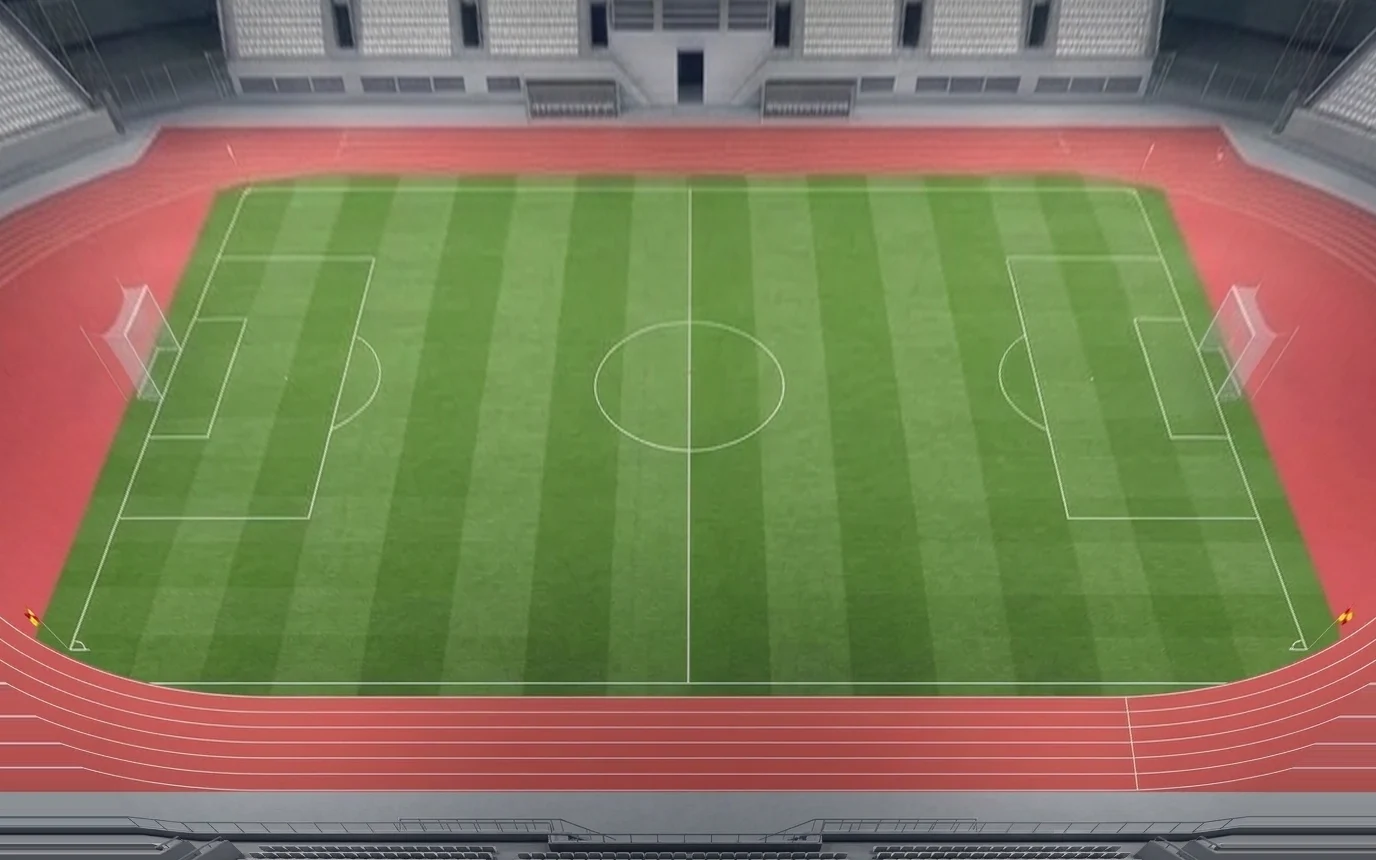
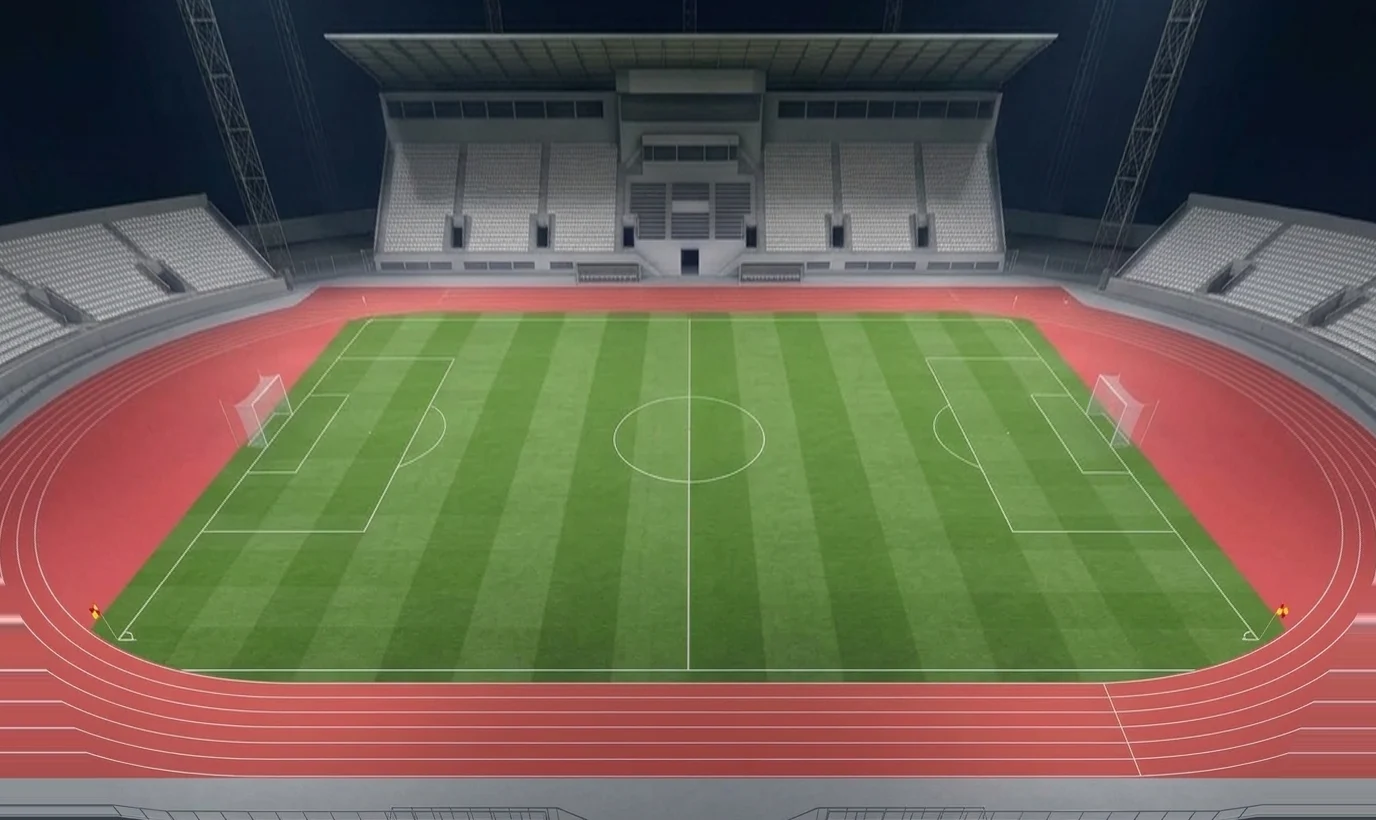
الملعب: تصحيح منظور متوسط — الملعب أكبر مع بقاء المدرجات والجمهور

diff --git a/live.js b/live.js
@@ -840,8 +840,8 @@ if(!LV.TEST){ let n=0; const w=()=>{ if(LV.store.ready()) startIdx(); else if(++
    ===================================================================== */
 (function(){
 const LV = window.LIVE, U = LV.util, H = U.H;
-const IW = 1376, IH = 860, MID = 688;
-const HM = [8.34285666,-2.94688529,250.0, 0,3.98058435,190.0, 0,-0.00428327,1];   /* ملعب 3: صورة Gemini مصحّحة المنظور (كاميرا أعلى، الملعب يملأ الإطار) */
+const IW = 1376, IH = 820, MID = 688;
+const HM = [6.01904755,-4.50856478,372.0, 0,0.51186839,320.0, 0,-0.00655315,1];   /* ملعب 3: صورة Gemini مصحّحة المنظور (كاميرا أعلى، الملعب يملأ الإطار) */
 function inv3(m){
   const [a,b,c,d,e,f,g,h,i]=m, A=e*i-f*h, B=-(d*i-f*g), C=d*h-e*g, det=a*A+b*B+c*C;
   return [A/det,-(b*i-c*h)/det,(b*f-c*e)/det, B/det,(a*i-c*g)/det,-(a*f-c*d)/det, C/det,-(a*h-b*g)/det,(a*e-b*d)/det];
@@ -850,15 +850,15 @@ const HI = inv3(HM);
 const ap = (m,x,y) => { const w=m[6]*x+m[7]*y+m[8]; return [(m[0]*x+m[1]*y+m[2])/w, (m[3]*x+m[4]*y+m[5])/w]; };
 LV.project = (mx,my) => { const [u,v]=ap(HM,mx,my); return {u,v}; };
 LV.unproject = (u,v) => { const [mx,my]=ap(HI,u,v); return {mx,my}; };
-const depth = v => Math.max(0, Math.min(1, (v-190)/460));   /* 0 = الخط البعيد، 1 = القريب */
+const depth = v => Math.max(0, Math.min(1, (v-320)/320));   /* 0 = الخط البعيد، 1 = القريب */
 
 /* crop = [x, y, w, h] بكسلات الصورة: نقصّ السماء ونُبقي الملعب والمدرجات، فيكبر الملعب في الإطار */
-LV.STAD_CROP = {ctl:[0,130,1376,640], pub:[0,90,1376,690]};
+LV.STAD_CROP = {ctl:[0,215,1376,540], pub:[0,60,1376,740]};
 LV.stadiumHTML = function(cls){
   const [cx,cy,cw,ch] = LV.STAD_CROP[cls] || [0,0,IW,IH];
   const inner = `width:${(IW/cw*100).toFixed(3)}%;left:${(-cx/cw*100).toFixed(3)}%;top:${(-cy/ch*100).toFixed(3)}%`;
   return `<div class="lv-stad ${cls||""}" style="aspect-ratio:${cw}/${ch}"><div class="lv-stad-in" style="${inner}">
-    <img class="lv-stad-img" src="assets/live/stadium.webp?v=3" alt="" draggable="false">
+    <img class="lv-stad-img" src="assets/live/stadium.webp?v=4" alt="" draggable="false">
     <canvas class="lv-crowd" width="${IW}" height="${IH}"></canvas>
     <svg class="lv-pitch lv-stad-svg" viewBox="0 0 ${IW} ${IH}" preserveAspectRatio="xMidYMid meet">
       <g class="lv-dirs"></g><g class="lv-marks"></g><g class="lv-ghost"></g>
@@ -897,14 +897,14 @@ LV.dirsStad = function(doc, ph){
   /* شعار الفريق المدافع عن كل جهة، بلا خلفية (منصور) — وإن لم يوجد شعار نعرض الاسم */
   const src = c => (typeof crestSrcOf==="function" ? crestSrcOf(c) : "") || ((typeof LOGOS==="object" && LOGOS) ? LOGOS[c] : "") || "";
   const tag = (x, s) => { const c = nm(s), u = src(c);
-    return u ? `<image class="lv-dircrest" href="${H(u)}" x="${x-40}" y="${722-40}" width="80" height="80" preserveAspectRatio="xMidYMid meet"><title>${H(c)}</title></image>`
-             : `<text x="${x}" y="726" text-anchor="middle" class="lv-dirt3">${H(c)}</text>`; };
-  return tag(200, r) + tag(1176, l);
+    return u ? `<image class="lv-dircrest" href="${H(u)}" x="${x-36}" y="${705-36}" width="72" height="72" preserveAspectRatio="xMidYMid meet"><title>${H(c)}</title></image>`
+             : `<text x="${x}" y="709" text-anchor="middle" class="lv-dirt3">${H(c)}</text>`; };
+  return tag(230, r) + tag(1146, l);
 };
 
 /* ───────────── الجمهور ───────────── */
 let SEATS = null, seatsP = null;
-function loadSeats(){ if(SEATS) return Promise.resolve(SEATS); if(!seatsP) seatsP = fetch("assets/live/seats.json?v=4").then(r=>r.json()).then(d=>{ SEATS=d; return d; }); return seatsP; }
+function loadSeats(){ if(SEATS) return Promise.resolve(SEATS); if(!seatsP) seatsP = fetch("assets/live/seats.json?v=5").then(r=>r.json()).then(d=>{ SEATS=d; return d; }); return seatsP; }
 const rnd = i => { let x = Math.imul(i ^ 0x9e3779b9, 0x85ebca6b); x ^= x>>>13; x = Math.imul(x, 0xc2b2ae35); x ^= x>>>16; return (x>>>0)/4294967296; };
 const SKIN = ["#e0b18f","#c68c65","#a8714f","#8a5a3c","#d9a178"];
 function teamColors(club){
@@ -921,7 +921,7 @@ function drawCrowd(cv, doc, bounce){
   const lv = LV.crowdOf(doc), home = teamColors(doc.home), away = teamColors(doc.away);
   const P = SEATS.p, t = bounce ? bounce.t : 0;
   for(let i=0, n=0; i<P.length; i+=3, n++){
-    const x = P[i]/10, y = P[i+1]/10, s = P[i+2]/10, side = (y < 380 && x >= MID) ? "a" : "h";   /* الضيف: يمين المنصة الرئيسية والمدرج المجاور لها — والباقي لصاحب الأرض (منصور) */
+    const x = P[i]/10, y = P[i+1]/10, s = P[i+2]/10, side = (y < 420 && x >= MID) ? "a" : "h";   /* الضيف: يمين المنصة الرئيسية والمدرج المجاور لها — والباقي لصاحب الأرض (منصور) */
     const lvl = (side==="h" ? lv.h : lv.a) / 100;
     if(rnd(n) >= lvl) continue;
     const pal = side==="h" ? home : away, second = rnd(n+7777) < (pal.light ? .55 : .3);   /* لون أساسي فاتح (أبيض) يضيع على المقاعد: نُكثر الثاني */

diff --git a/index.html b/index.html
@@ -2151,8 +2151,8 @@ main{padding-bottom:48px}
 <script src="fantasy/js/i18n-more.js?v=12" defer></script>
 <script src="site-i18n.js?v=17" defer></script>
 <!-- مركز المباراة المباشر: صفحة الجمهور + الربط (غرفة التحكم live-admin.js تُحمَّل عند فتحها فقط) -->
-<link rel="stylesheet" href="live.css?v=5">
-<script src="live.js?v=7" defer></script>
+<link rel="stylesheet" href="live.css?v=6">
+<script src="live.js?v=8" defer></script>
 <!-- تبويبات لوحة الإدارة: إعادة تنظيم للأقسام الموجودة فقط -->
 <link rel="stylesheet" href="admin-tabs.css?v=1">
 <script src="admin-tabs.js?v=1" defer></script>

diff --git a/live.css b/live.css
@@ -353,7 +353,7 @@ html.lvc-open,html.lvc-open body{overflow:hidden}
 /* ---------- الملعب ثلاثي الأبعاد + الجمهور ---------- */
 .lv-3d{padding:0;background:#050a13;overflow:hidden}
 .lv-stad{position:relative;width:100%;border-radius:14px;overflow:hidden;background:#050a13}
-.lv-stad-in{position:absolute;aspect-ratio:1376/860}
+.lv-stad-in{position:absolute;aspect-ratio:1376/820}
 .lv-stad-in > *{position:absolute;inset:0;width:100%;height:100%}
 .lvc-stage{grid-template-columns:1fr!important}
 .lvc-comp{min-height:0}

diff --git a/sw.js b/sw.js
@@ -9,7 +9,7 @@
 
    عند كل نشر: ارفع رقم VER فتُبنى ذاكرة جديدة وتُحذف القديمة.
    ========================================================= */
-const VER   = 'mf-2026-09-21-220';
+const VER   = 'mf-2026-09-21-221';
 const SHELL = 'shell-' + VER;
 const RUN   = 'run-'   + VER;
 
